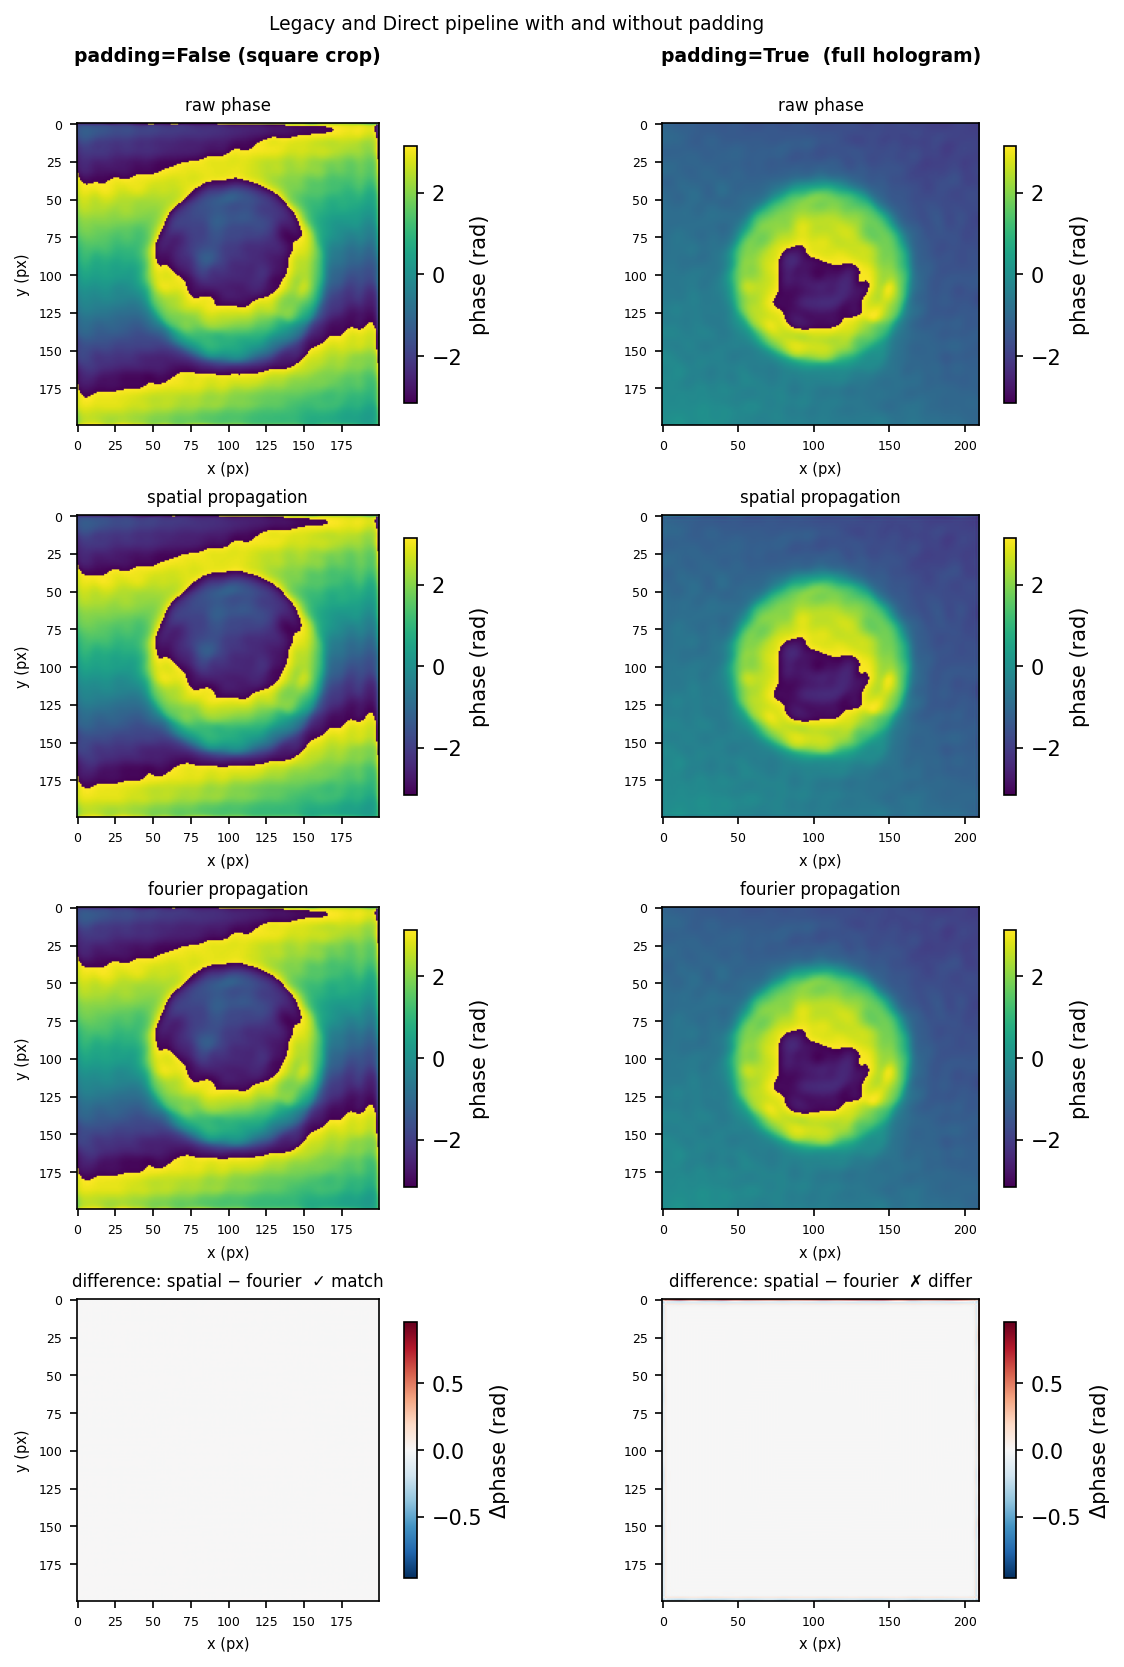
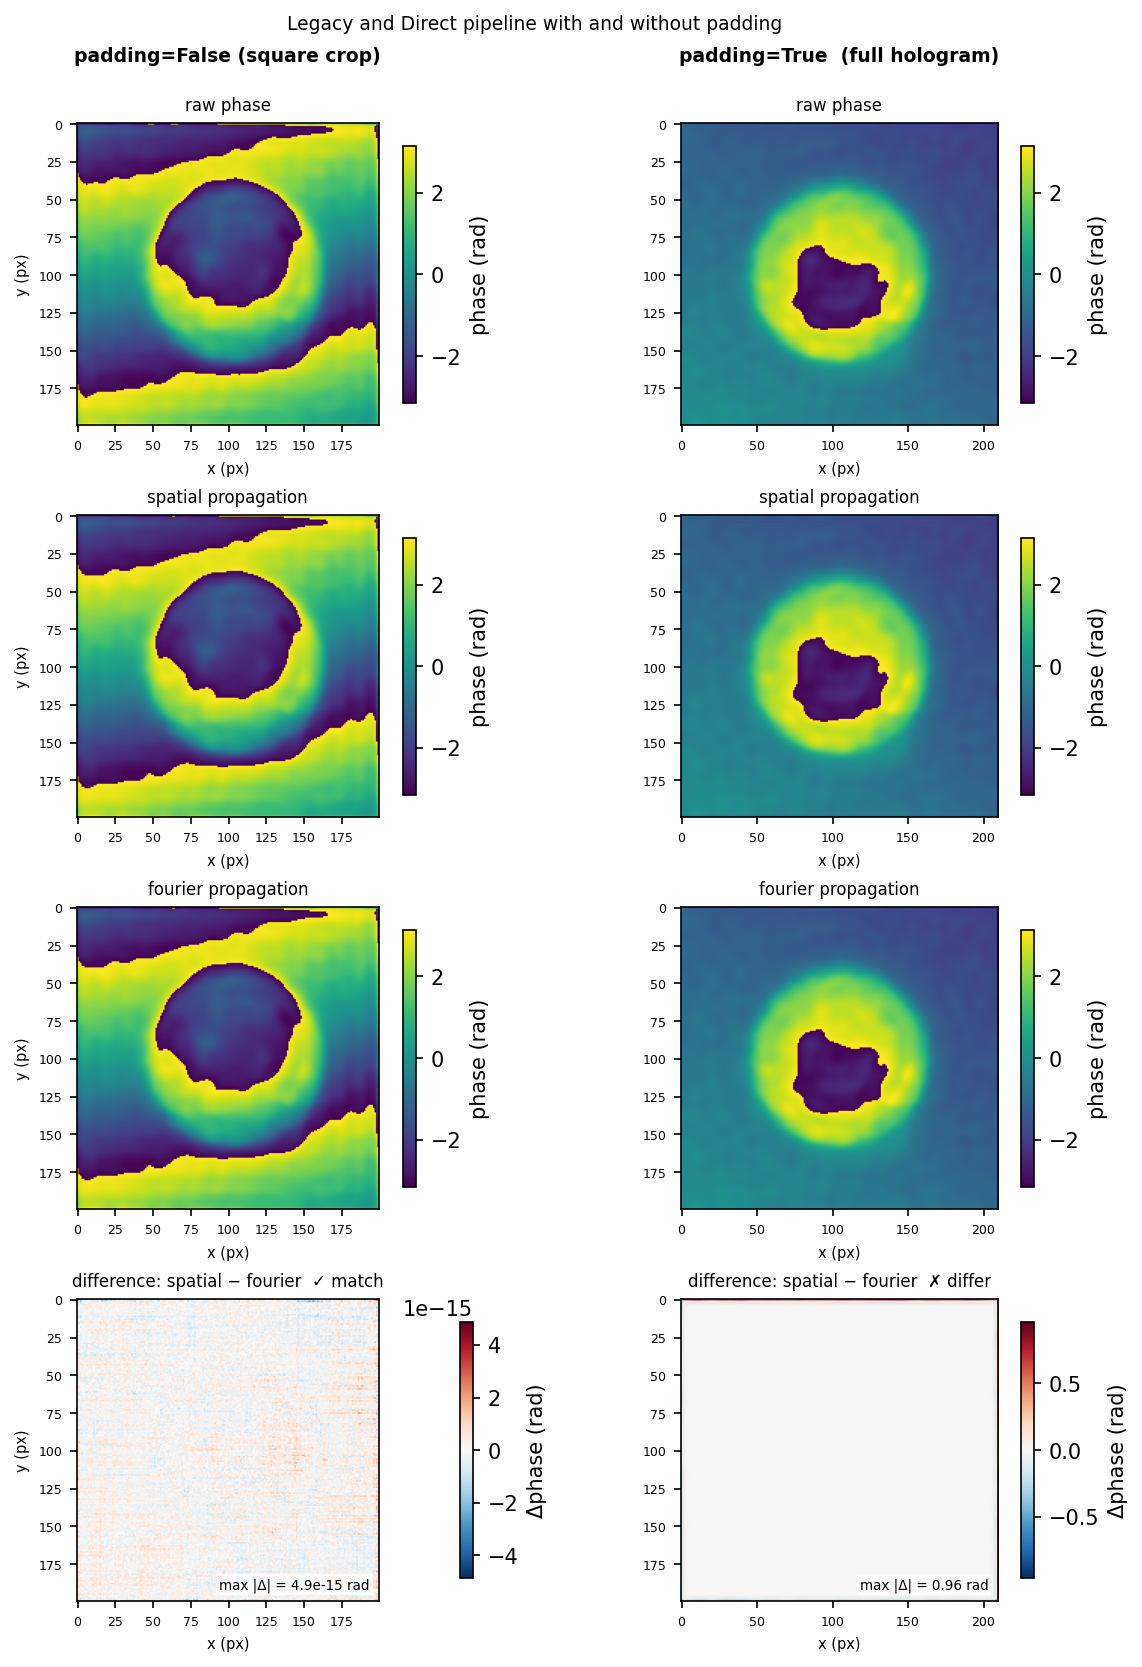
fix: lint codebase

diff --git a/examples/pipeline_domain_comparison.py b/examples/pipeline_domain_comparison.py
@@ -80,13 +80,18 @@ panel_titles = [
     ("raw phase", "raw phase"),
     ("spatial propagation", "spatial propagation"),
     ("fourier propagation", "fourier propagation"),
-    ("difference: spatial − fourier  ✓ match", "difference: spatial − fourier  ✗ differ"),
+    ("difference: spatial − fourier  ✓ match",
+     "difference: spatial − fourier  ✗ differ"),
 ]
 rows = [
-    ((_phase(field_raw_nopad), _phase(field_raw_pad)), "phase (rad)", "viridis"),
-    ((_phase(field_spatial_nopad), _phase(field_spatial_pad)), "phase (rad)", "viridis"),
-    ((_phase(field_fourier_nopad), _phase(field_fourier_pad)), "phase (rad)", "viridis"),
-    ((diff_nopad, diff_pad), "Δphase (rad)", "RdBu_r"),
+    ((_phase(field_raw_nopad), _phase(field_raw_pad)),
+     "phase (rad)", "viridis"),
+    ((_phase(field_spatial_nopad), _phase(field_spatial_pad)),
+     "phase (rad)", "viridis"),
+    ((_phase(field_fourier_nopad), _phase(field_fourier_pad)),
+     "phase (rad)", "viridis"),
+    ((diff_nopad, diff_pad),
+     "Δphase (rad)", "RdBu_r"),
 ]
 col_headers = ["padding=False (square crop)", "padding=True  (full hologram)"]
 
